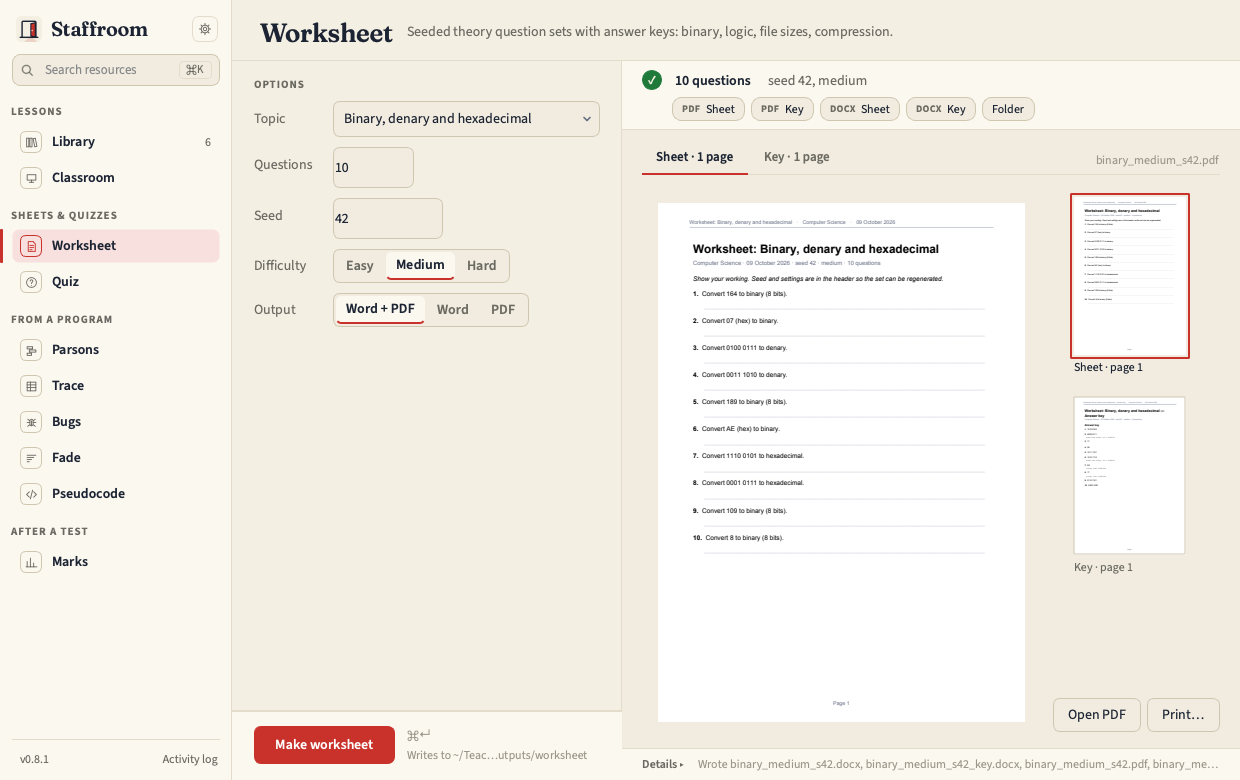
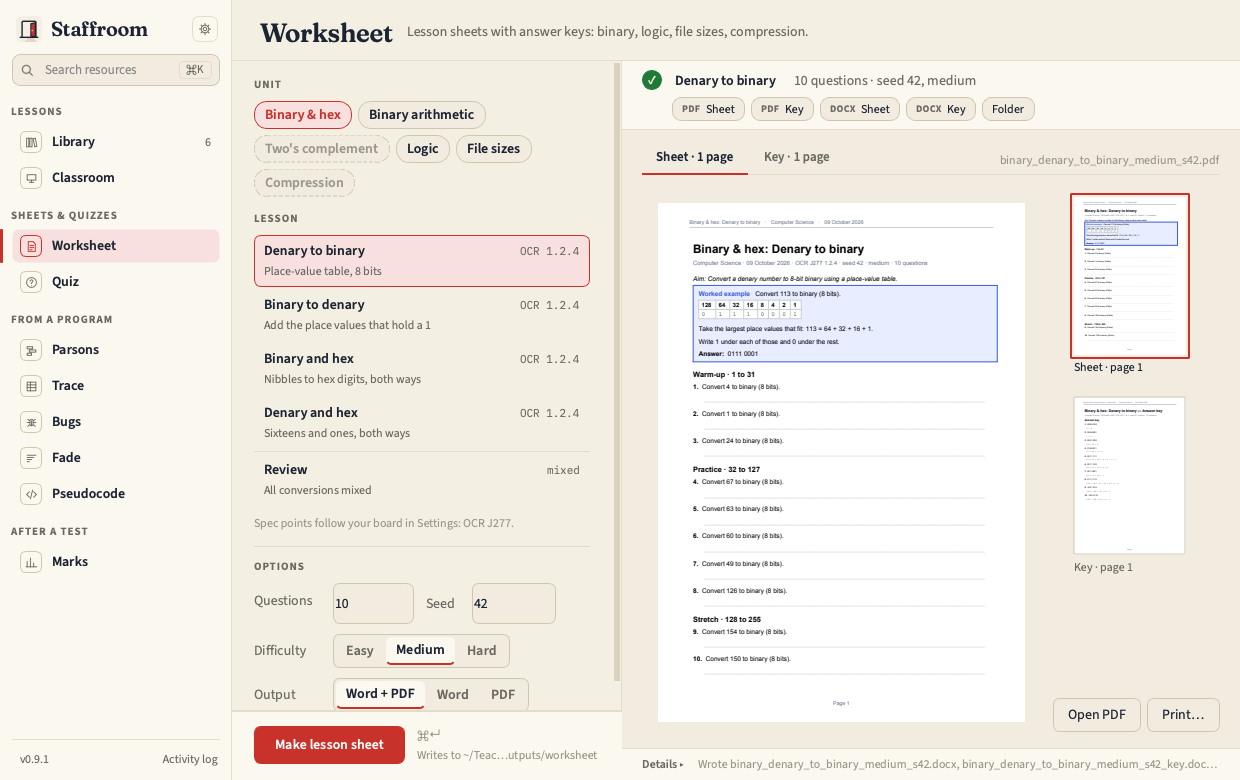
docs(worksheet): units and lessons, the verified spec points, new screenshots (#75)

diff --git a/docs/tools/worksheet.md b/docs/tools/worksheet.md
@@ -1,71 +1,130 @@
 # Worksheet
 
-Seeded sets of theory questions with answer keys. The seed, difficulty and
-count are printed in the header so a set can be regenerated. A count outside
-1–60 is refused with a sentence rather than writing an empty sheet.
+One sheet for one lesson. Choose a **Unit** (*Binary & hex*), then a
+**Lesson** in it (*Denary to binary*): the sheet practises that one skill.
+It opens with a one-line aim and a **worked example** solved in full (with a
+place-value table, a column addition or a truth table where one helps), then
+climbs through **Warm-up**, **Practice** and **Stretch**. **Difficulty** sets
+the size of the numbers; the climb happens inside every sheet. The key gives
+the answer and the working for every question.
+
+The header names your board's spec point, then the seed, difficulty and
+count, so a sheet can be made again. A count outside 1–60 is refused with a
+sentence rather than writing an empty sheet.
 
 ![Worksheet panel](../worksheet-light.png)
 
-## Topics
+## Units and lessons
 
-| Topic | What it asks |
-| --- | --- |
-| binary | denary ↔ binary ↔ hex (4, 8 or 12 bits by difficulty) |
-| twos_complement | 8-bit two's complement both ways |
-| binary_addition | 8-bit addition with the overflow flag |
-| shifts | logical and arithmetic shifts and their effect |
-| truth_tables | 2 or 3 inputs; the gates follow the board and level (below) |
-| boolean_simplification | with each law written in the question's own letters in the key |
-| file_size | image, sound and text calculations |
-| rle | run-length encode and decode |
-| huffman | total bits for a small frequency table |
+Each lesson shows your board's spec point beside it. A lesson your board does
+not have stays choosable but greyed, saying whose it is (*On Edexcel only*),
+so a stretch group or an A-level class can still use it.
 
-Every generator is verified in the tests by independent computation.
+| Unit | Lesson | OCR J277 | AQA 8525 | Pearson Edexcel 1CP2 |
+| --- | --- | --- | --- | --- |
+| Binary & hex | Denary to binary | 1.2.4 | 3.3.2 | 2.1.3 |
+| | Binary to denary | 1.2.4 | 3.3.2 | 2.1.3 |
+| | Binary and hex | 1.2.4 | 3.3.2 | 2.1.6 |
+| | Denary and hex | 1.2.4 | 3.3.2 | — |
+| | Review | mixed | mixed | mixed |
+| Binary arithmetic | Binary addition | 1.2.4 | 3.3.4 | 2.1.4 |
+| | Overflow | 1.2.4 | — | 2.1.5 |
+| | Logical shifts | 1.2.4 | 3.3.4 | 2.1.4 |
+| | Arithmetic shifts | — | — | 2.1.4 |
+| | Review: addition, Review: shifts | mixed | mixed | mixed |
+| Two's complement | Denary to two's complement | — | — | 2.1.3 |
+| | Two's complement to denary | — | — | 2.1.3 |
+| | Review | — | — | mixed |
+| Logic | One gate, Two gates, Three gates | 2.4.1 | 3.4.2 | 1.3.1 |
+| | Simplification | A level | A level | A level |
+| | Review: truth tables | mixed | mixed | mixed |
+| | Review: simplification | A level | A level | A level |
+| File sizes | Image file size | 1.2.3 | 3.3.6 | 2.3.1 |
+| | Sound file size | 1.2.3 | 3.3.7 | 2.3.1 |
+| | Text file size | 1.2.3 | 3.3.8 | 2.3.1 |
+| | Review | mixed | mixed | mixed |
+| Compression | RLE: encode, RLE: decode | — | 3.3.8 | — |
+| | Huffman coding | — | 3.3.8 | — |
+| | Review: RLE, Review: Huffman | — | mixed | — |
 
-## Logic questions
+Each point was checked against the board's published specification (the
+same codes as `core/spec/*.toml`), and a test holds the table above. Where a
+point was a judgement: OCR J277 1.2.5 leaves out carrying out compression
+algorithms, and Edexcel 2.3.2 names lossless and lossy compression but no
+method, so RLE and Huffman are AQA's; AQA 3.3.4 says answers never carry
+beyond the 8th bit and only logical shifts are used, so Overflow and
+Arithmetic shifts are not AQA's; Edexcel 2.1.6 converts hex to and from
+binary only. Image, sound and text sizes are OCR J277 1.2.3, where the
+formulas sit; AQA's text size is the uncompressed-ASCII count in 3.3.8.
+
+File sizes follow the board's units: Pearson Edexcel 1CP2 measures in
+kibibytes (1 KiB = 1,024 bytes, 2.3.1); OCR J277 and AQA 8525 in thousands
+(1 KB = 1,000 bytes).
+
+## Review sheets
+
+The last lessons of a unit are its **Review** sheets: the mixed sheets the
+tool made before it had lessons, with no worked example or sections. They
+are exactly those sheets: the same seed, difficulty and count make the same
+questions, the same key and the same file name
+(`<topic>_<difficulty>_s<seed>`), so a seed printed on an old sheet still
+works. A unit that held two old topics has a Review for each (*Review:
+shifts*, *Review: Huffman*).
+
+## Logic lessons
 
 Truth tables use the gates the exam board requires: OCR J277 and Pearson
 Edexcel 1CP2 are AND, OR and NOT (Edexcel 1.3.1: up to three inputs); AQA
-8525 adds XOR. No GCSE board has NAND or NOR, so those appear
-only when **Level** is *A level* (`--level a_level`) *and* **Difficulty** is
-*Hard* (A-level also
-adds XOR at every difficulty). The board comes from Settings (`general.board`)
-or `--board`. Every question uses all of the inputs its table lists, no gate is
-fed the same input twice, and Q is never constant or simply one input. Each
-difficulty has its own shape: easy is one gate on two inputs, medium two gates
-(`(A AND B) OR NOT C`), hard three gates or a NOT over a bracket
-(`NOT (A OR B) AND (C AND NOT B)`).
+8525 adds XOR. No GCSE board has NAND or NOR, so those appear only when
+**Gates** is *A level* (`--level a_level`) *and* **Difficulty** is *Hard*
+(A-level also adds XOR at every difficulty). The board comes from Settings
+(`general.board`) or `--board`. Every question uses all of the inputs its
+table lists, no gate is fed the same input twice, and Q is never constant or
+simply one input. *One gate* is one gate on two inputs, *Two gates*
+`(A AND B) OR C` on three, *Three gates* adds brackets and a NOT over a
+bracket; each sheet adds NOTs as it climbs. The key lists the column of
+every bracket on the way to Q.
 
-Boolean simplification builds each question from textbook forms: a law wraps
-one letter (or `NOT` letter), or one small gate, in its longer form —
-absorption `A OR (A AND C)`, the distributive pair `(A AND B) OR (A AND NOT B)`,
-the redundancy form `A AND (NOT A OR B)`, De Morgan `NOT (NOT A OR NOT B)` —
-and the key undoes the wraps in order, each step in the question's own letters:
-`absorption: B AND (B OR NOT C) = B, leaving A AND B`. Easy is one step, medium
-two, hard three, and a question stays the size of an exam one at every
-difficulty (a hard sheet reads `(A OR (A AND C)) AND NOT (A AND NOT B)`, not a
-form nested inside a form inside a form); a sheet never repeats a question.
-**Boolean laws** chooses what is practised: *Absorption* (`absorption`:
-absorption, distributive and complement; the default), *Absorption + De
-Morgan* (`de_morgan`), *Identities* (`identities`: identity, idempotent,
-double negation, complement; the only family that puts `X AND X`, `NOT NOT
-X` or `0`/`1` on the sheet) or *All laws* (`all`). The panel shows **Level**
-only for truth tables and **Boolean laws** only for Boolean simplification.
+Boolean simplification is A level on every board. It builds each question
+from textbook forms: a law wraps one letter (or `NOT` letter), or one small
+gate, in its longer form — absorption `A OR (A AND C)`, the distributive pair
+`(A AND B) OR (A AND NOT B)`, the redundancy form `A AND (NOT A OR B)`, De
+Morgan `NOT (NOT A OR NOT B)` — and the key undoes the wraps in order, each
+step in the question's own letters: `absorption: B AND (B OR NOT C) = B,
+leaving A AND B`. The lesson climbs from one step to three; a question stays
+the size of an exam one. **Boolean laws** chooses what is practised:
+*Absorption* (`absorption`: absorption, distributive and complement; the
+default), *+ De Morgan* (`de_morgan`), *Identities* (`identities`: identity,
+idempotent, double negation, complement; the only family that puts
+`X AND X`, `NOT NOT X` or `0`/`1` on the sheet) or *All* (`all`). The panel
+shows **Gates** only for truth-table lessons and **Boolean laws** only for
+simplification.
 
 The header names the gate set or the law family next to the seed, so a sheet
-describes the settings that regenerate it; an A-level sheet also gets `alevel`
-in its file name so it never overwrites the GCSE sheet with the same seed.
+describes the settings that make it again; an A-level sheet also gets
+`alevel` in its file name so it never overwrites the GCSE sheet with the
+same seed.
 
-![A hard truth-table sheet for OCR](../worksheet-sample.png)
+![A lesson sheet: Logic, Three gates](../worksheet-sample.png)
+
+## Command line
 
 ```bash
-staff worksheet make --topic binary --count 20 --seed 42 --difficulty medium
-staff worksheet make --topic truth_tables --difficulty hard --level a_level --board aqa
-staff worksheet make --topic boolean_simplification --laws de_morgan
-staff worksheet topics
+staff worksheet lessons                       # every unit and lesson, with your board's points
+staff worksheet make binary --lesson denary-to-binary --count 10 --seed 42
+staff worksheet make logic --lesson two-gates --difficulty hard --board aqa
+staff worksheet make logic --lesson simplification --laws de_morgan
+staff worksheet make binary                   # a unit on its own: its Review sheet
+staff worksheet make --topic truth_tables     # an old topic name: its Review, unchanged
 ```
 
-Output: `<topic>_<difficulty>_s<seed>.docx/.pdf` plus a `_key` file, in the
+`staff worksheet topics` still works and lists the same. Old topic names
+(`binary`, `twos_complement`, `binary_addition`, `shifts`, `truth_tables`,
+`boolean_simplification`, `file_size`, `rle`, `huffman`) each make their
+Review sheet.
+
+Output: `<unit>_<lesson>_<difficulty>_s<seed>.docx/.pdf` (a Review keeps
+`<topic>_<difficulty>_s<seed>`) plus a `_key` file, in the
 [house style](../guide/house-style.md), in `~/TeachingSessions/outputs/worksheet/`
 unless Settings names an output folder ([Outputs](../guide/outputs.md)).
-*Seed*, *level* and *Boolean laws* are in the [Glossary](../guide/glossary.md).
+*Seed*, *Gates*, *Boolean laws* and *Review* are in the [Glossary](../guide/glossary.md).

diff --git a/docs/guide/glossary.md b/docs/guide/glossary.md
@@ -202,14 +202,26 @@ term has a precise meaning in the code, this is that meaning.
   or on the first-run card (`staff worksheet make --board` overrides it for
   one run). Chooses the grade preset Marks starts with (the panel, and
   `staff marks run` without `--preset`), the gates a GCSE truth-table
-  worksheet may use (OCR and Edexcel: AND, OR, NOT; AQA adds XOR) and the
-  language Pseudocode's *To* starts on (Edexcel: Python). Quiz spec tags are
+  worksheet may use (OCR and Edexcel: AND, OR, NOT; AQA adds XOR), which
+  Worksheet lessons are greyed and the spec point a lesson sheet prints, the
+  units its file sizes use (Edexcel: KiB, 1,024 bytes; OCR and AQA: KB, 1,000)
+  and the language Pseudocode's *To* starts on (Edexcel: Python). Quiz spec tags are
   per question (`ocr:`, `aqa:` and `edexcel:` can all be on one), so which
   questions a bank holds does not depend on it; the bank's summary names
   your board's spec points first, or says it has none.
 
-**Level** (Worksheet)
-: *GCSE* or *A level* (`gcse` / `a_level`), for truth tables. GCSE follows the board; A-level
+**Lesson** (Worksheet)
+: One skill of a unit (*Binary & hex › Denary to binary*): an aim, a worked
+  example, then Warm-up, Practice and Stretch. Chosen in the panel's lesson
+  list or with `staff worksheet make <unit> --lesson <lesson>`.
+
+**Review** (Worksheet)
+: A unit's last lessons: the mixed sheets Worksheet made before it had
+  lessons, unchanged, so an old seed makes the same sheet and key. An old
+  topic name (`--topic shifts`) makes its Review.
+
+**Gates** (Worksheet)
+: *My GCSE board* or *A level* (`--level gcse` / `a_level`), for truth tables. GCSE follows the board; A-level
   adds XOR at every difficulty and NAND / NOR at `hard`, and puts `alevel`
   in the file name so the GCSE sheet with the same seed survives.
 

diff --git a/CHANGELOG.md b/CHANGELOG.md
@@ -32,6 +32,18 @@ later entries refer to this repository's issues.
   fallback.
 
 ### Changed
+- Worksheets are one sheet per lesson, not per unit (#75). Pick a unit (*Binary & hex*),
+  then a lesson (*Denary to binary*): the sheet states its aim, solves a worked example in
+  full (place-value table, column addition or truth table), then climbs through Warm-up,
+  Practice and Stretch, with working in the key for every question. Each lesson shows its
+  spec point for OCR J277, AQA 8525 and Pearson Edexcel 1CP2, checked against the published
+  specifications; a lesson not on your board stays choosable, greyed, saying whose it is.
+  Edexcel file sizes are in KiB. Each old topic is now a unit's *Review* lesson and makes
+  exactly the sheet it made before, so old seeds and `--topic` commands keep working;
+  `staff worksheet make <unit> --lesson <lesson>` and `staff worksheet lessons` are new. The
+  kit adds `GroupedChoice` (chips over a list of rows, which can follow Settings) and the
+  house style a `WorkedExample` block; PDF and Word keep a question with its table, and a
+  heading with what follows it, on one page.
 - The source distribution carries only the package, its tests and the examples: 1.2 MB
   instead of 40 MB (no docs images, audits or `.claude/`). Tests about the repository
   around the package are marked `checkout` and skipped there; the Release workflow runs

diff --git a/docs/guide/outputs.md b/docs/guide/outputs.md
@@ -42,7 +42,7 @@ input, so its stem is built from its options.
 | Tool | Files | Notes |
 | --- | --- | --- |
 | Marks | `<stem>_distribution.csv`, `<stem>_distribution.png`, `<stem>_questions.csv` | aggregates only; the per-script grades on screen are never written |
-| Worksheet | `<topic>_<difficulty>_s<seed>.docx` / `.pdf` and `…_key.docx` / `.pdf` | `binary_medium_s42.pdf`; the seed in the name and in the header regenerates the same set. With *Level* set to *A level* the stem is `<topic>_<difficulty>_alevel_s<seed>`, so it never overwrites the GCSE sheet with the same seed |
+| Worksheet | `<unit>_<lesson>_<difficulty>_s<seed>.docx` / `.pdf` and `…_key.docx` / `.pdf`; a Review sheet keeps the old `<topic>_<difficulty>_s<seed>` | `binary_denary_to_binary_medium_s42.pdf`, `binary_medium_s42.pdf`; the seed in the name and in the header regenerates the same set. With *Gates* set to *A level* a truth-table sheet's stem gains `_alevel` before the seed, so it never overwrites the GCSE sheet with the same seed |
 | Parsons | `<stem>_parsons_s<seed>.docx` / `.pdf` and `…_key` | |
 | Trace | `<stem>_trace.docx` / `.pdf` (blank table) and `<stem>_trace_key` (completed) | |
 | Bugs | `<stem>_bug1.py` … `<stem>_bugN.py`, then `<stem>_bugs.docx` / `.pdf` and `<stem>_bugs_key` | one `.py` per variant, so a variant can be opened in Thonny as it is |

diff --git a/docs/adding-a-tool.md b/docs/adding-a-tool.md
@@ -236,6 +236,16 @@ through `core.csvio.read_table`), must be quick, and is only a hint. A
 "seed"), more=("spec", "title"))` puts short fields on one row and folds what
 few runs need behind *More*. `tools/quiz` is the reference.
 
+A choice of one item from groups (a unit, then a lesson in it) is a
+`GroupedChoice(key, label="Unit", items_label="Lesson", groups=(ItemGroup(...),))`:
+the groups as chips, the chosen group's `GroupedItem`s as rows, each with a
+`tag` at the right (a spec point), a `detail` line, and `dim=True` with a
+`note` for a row drawn faint but still choosable; `divided=True` rules a row
+off from the ones above. Its value is the chosen item's value. When the rows
+depend on Settings, `for_config(config)` returns the choice rebuilt; the
+shell calls it each time the panel is shown. A `PanelSpec.shown_when` can
+read it like a `Choice`. `tools/worksheet` is the reference.
+
 The panel's first `CodeSource`, `ResourcePicker` or (opening) `FilePicker` is its **main
 file input**, and the extensions it declares (`filter_ext=".py"`, several as
 `filter_ext=(".py", ".txt")`, or the `*.ext` patterns in `filters`) put the

diff --git a/README.md b/README.md
@@ -9,7 +9,7 @@ one plain house style. No pupil names, ever.
 
 <table>
 <tr>
-<td><a href="https://colepoppleton.github.io/Staffroom/tools/worksheet/"><img src="docs/output-worksheet.png" width="180" alt="A binary, denary and hexadecimal worksheet, seed 1"></a></td>
+<td><a href="https://colepoppleton.github.io/Staffroom/tools/worksheet/"><img src="docs/output-worksheet.png" width="180" alt="A denary to binary lesson worksheet, seed 1"></a></td>
 <td><a href="https://colepoppleton.github.io/Staffroom/tools/quiz/"><img src="docs/output-quiz.png" width="180" alt="A do-now sheet from the example question bank"></a></td>
 <td><a href="https://colepoppleton.github.io/Staffroom/tools/parsons/"><img src="docs/output-parsons.png" width="180" alt="A Parsons problem made from a short program"></a></td>
 <td><a href="https://colepoppleton.github.io/Staffroom/tools/trace/"><img src="docs/output-trace.png" width="180" alt="A blank trace table made from the same program"></a></td>

diff --git a/docs/index.md b/docs/index.md
@@ -49,7 +49,7 @@ macOS 14 or later.
 
 ![Parsons problem made from year9.py](output-parsons.png){ .sr-page .sr-page--back }
 ![Trace table made from year9.py](output-trace.png){ .sr-page .sr-page--middle }
-![Binary worksheet, seed 1](output-worksheet.png){ .sr-page .sr-page--front }
+![Worksheet: denary to binary, seed 1](output-worksheet.png){ .sr-page .sr-page--front }
 
 </div>
 
@@ -101,7 +101,7 @@ comes with its answer key as a separate file, in PDF and Word.
 <div class="sr-gallery" markdown>
 
 <div class="sr-card" markdown>
-[![Worksheet: binary, seed 1](output-worksheet.png){ .sr-thumb }](tools/worksheet.md)
+[![Worksheet: denary to binary, seed 1](output-worksheet.png){ .sr-thumb }](tools/worksheet.md)
 
 [Worksheet](tools/worksheet.md){ .sr-card__name }
 Seeded binary, logic, file-size and compression questions; the seed is in
